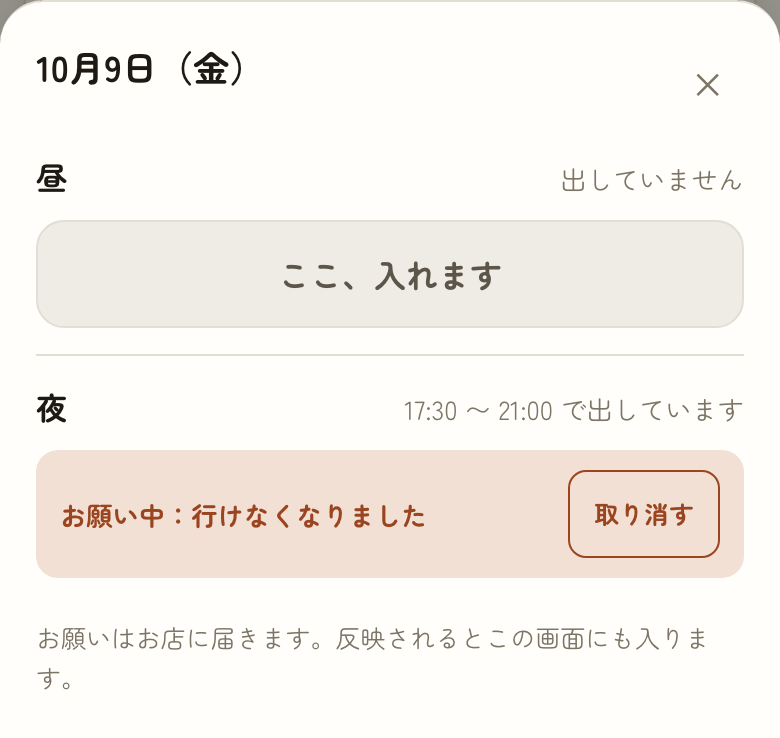
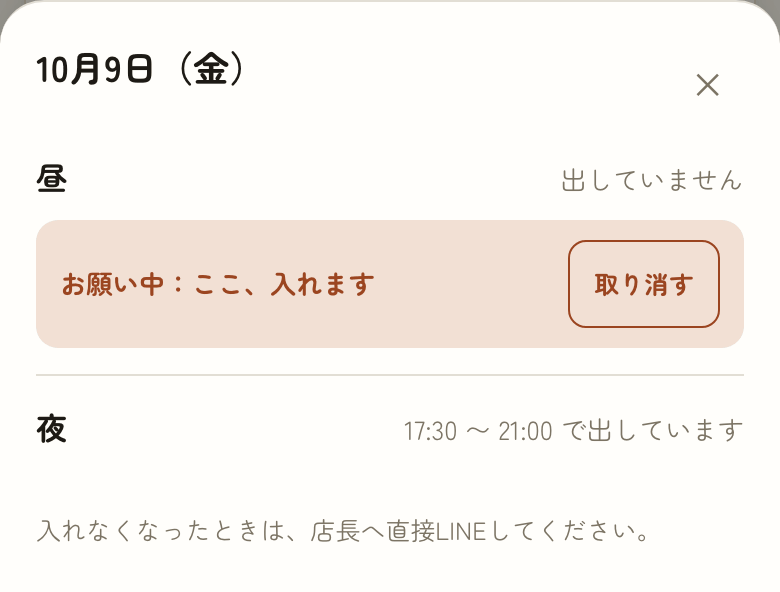
せんや：締切後の「行けなくなりました」をスタッフ画面から外す。入れなくなったときは店長へ直接LINEと案内する。空き枠の「ここ、入れます」は残す／希望なしで確定だけある枠にも「ここ、入れます」を出さず決まった時間を出す／案内・説明書・画像を更新
Claude-Session: https://claude.ai/code/session_01YAqp5QN6wATmCnquKFVScV

diff --git a/tsumiki-senya-tsukaikata.html b/tsumiki-senya-tsukaikata.html
@@ -532,11 +532,11 @@
     </article>
 
     <article class="item" id="i17">
-      <div class="figs"><figure class="shot pair"><img src="senya-shots/s-locked.png" alt="締切ずみと出ているスタッフのカレンダー" loading="lazy" decoding="async" width="780" height="1084"><img src="senya-shots/s-lockedsheet.png" alt="締切後にお願いを出す画面" loading="lazy" decoding="async" width="780" height="754"><figcaption>上＝締切をすぎた月　下＝日をタップすると、この2つが出る</figcaption></figure><figure class="shot"><img src="senya-shots/s-req.png" alt="お願い中と出ている画面" loading="lazy" decoding="async" width="780" height="774"><figcaption>出したお願いは、取り消せます</figcaption></figure></div>
+      <div class="figs"><figure class="shot pair"><img src="senya-shots/s-locked.png" alt="締切ずみと出ているスタッフのカレンダー" loading="lazy" decoding="async" width="780" height="1084"><img src="senya-shots/s-lockedsheet.png" alt="締切後にお願いを出す画面" loading="lazy" decoding="async" width="780" height="754"><figcaption>上＝締切をすぎた月　下＝日をタップしたところ</figcaption></figure><figure class="shot"><img src="senya-shots/s-req.png" alt="お願い中と出ている画面" loading="lazy" decoding="async" width="780" height="774"><figcaption>出したお願いは、取り消せます</figcaption></figure></div>
       <div class="txt"><h3><span class="n">17</span>締切をすぎたら（お願いを出す）<span class="who-tag w">スタッフ</span></h3>
-      <p>締切をすぎた月は<strong>自分では直せません</strong>。でも日をタップすると <kbd>行けなくなりました</kbd> <kbd>ここ、入れます</kbd> が出ます。押すと<strong>お店にお願いが届きます</strong>。</p>
+      <p>締切をすぎた月は<strong>自分では直せません</strong>。空いている時間は、日をタップして <kbd>ここ、入れます</kbd> を押すと<strong>お店にお願いが届きます</strong>。<strong>入れなくなったときは、店長へ直接LINEしてください。</strong></p>
       
-      <details class="more"><summary>くわしく</summary><div class="mb"><p class="fine">お願いを出すと、上に「お願い ◯件」と出て、その日に赤い枠がつきます。取り消すこともできます。<br>店長が受け入れると、その内容が希望に反映されます。<strong>LINEで別に連絡する必要はありません。</strong></p></div></details></div>
+      <details class="more"><summary>くわしく</summary><div class="mb"><p class="fine">お願いを出すと、上に「お願い ◯件」と出て、その日に赤い枠がつきます。取り消すこともできます。<br>店長が受け入れると、その内容が希望に反映されます。</p></div></details></div>
     </article>
 
     <article class="item" id="i18">
@@ -633,7 +633,7 @@
       <div class="figs"><figure class="shot"><img src="senya-shots/k-req.png" alt="スタッフからのお願い" loading="lazy" decoding="async" width="780" height="872"><figcaption>受け入れるか、見送るかを選ぶ</figcaption></figure></div>
       <div class="txt"><h3><span class="n">29</span>お願いを受け取る<span class="who-tag m">店長</span></h3>
       <p>締切のあとにスタッフが出したお願いは、<strong>一覧のいちばん上に赤く出ます</strong>。名前を押すと中身が開き、<kbd>受け入れる</kbd> か <kbd>見送る</kbd> を選べます。</p>
-      <details class="more"><summary>くわしく</summary><div class="mb"><p class="fine"><kbd>受け入れる</kbd> を押すと、その内容が希望に反映されます（「行けなくなりました」なら、決まっていたシフトからも外れます）。<br><kbd>見送る</kbd> は希望を変えずに、お願いだけ片づけます。どちらもスタッフの画面から消えます。</p></div></details></div>
+      <details class="more"><summary>くわしく</summary><div class="mb"><p class="fine"><kbd>受け入れる</kbd> を押すと、その内容が希望に反映されます。<br><kbd>見送る</kbd> は希望を変えずに、お願いだけ片づけます。どちらもスタッフの画面から消えます。</p></div></details></div>
     </article>
 
 <article class="item" id="i30">
@@ -753,7 +753,7 @@
     </div>
     <div>
       <div class="q">日をタップしても入れられない</div>
-      <div class="a"><b>締切をすぎています。</b>その月は自分では直せません。日をタップして <kbd>行けなくなりました</kbd> <kbd>ここ、入れます</kbd> からお願いを出してください。店長が受け入れると反映されます。</div>
+      <div class="a"><b>締切をすぎています。</b>その月は自分では直せません。入れる日が増えたときは、日をタップして <kbd>ここ、入れます</kbd> からお願いを出してください。入れなくなったときは、店長へ直接LINEしてください。</div>
     </div>
     <div>
       <div class="q">出したはずの日が消えている</div>

diff --git a/tsumiki-senya.html b/tsumiki-senya.html
@@ -1009,11 +1009,11 @@ function render(){
   /* 案内文。
      ⚠ 締切前の説明は「使い方」なので、まだ1日も出していない人にだけ出す。
      慣れた人には毎月ずっと出続けるだけで、読まれない。空の月に戻れば また出る。
-     締切後の案内（お願いの出しかた）は、めったに出ない状況の説明なので残す。 */
+     締切後の案内（変更の伝えかた）は、めったに出ない状況の説明なので残す。 */
   const hintEl=document.getElementById('hint');
   const hintTxt = cur.editable
     ? (n===0 ? '働ける日をタップして、'+((me.slots||[]).map(s=>s.label).join('・')||'時間帯')+' それぞれを選んでください。選ばなかったところは「その時間は働けない」として伝わります。' : '')
-    : '締切をすぎたので直せません。急な変更は、日をタップして「お願い」を出してください。';
+    : '締切をすぎたので直せません。入れなくなったときは店長へ直接LINEを。入れる日があるときは、日をタップしてください。';
   hintEl.textContent=hintTxt; hintEl.hidden=!hintTxt;
 
   /* 出し終わりの印 */
@@ -1334,14 +1334,17 @@ document.getElementById('shSave').addEventListener('click',async()=>{
 /* 締切後：お願い */
 function renderLocked(key){
   const box=document.getElementById('shReqs'); box.innerHTML='';
+  let canAdd=false, hasShift=false;
   (me.slots||[]).forEach(s=>{
     const got=(byDate[key]||{})[s.k];
+    const fixed=(byAssign[key]||{})[s.k];   // 希望が無くても、店長が決めた枠は「入っている」として扱う
     const req=byReq[key+'|'+s.k];
     const row=document.createElement('div'); row.className='reqrow';
 
     const t=document.createElement('div'); t.className='rt';
     t.innerHTML='<b>'+esc(s.label)+'</b><span class="rs">'
-      +(got?(m2hm(got.from)+' 〜 '+m2hm(got.to)+' で出しています'):'出していません')+'</span>';
+      +(fixed?(m2hm(fixed.from)+' 〜 '+m2hm(fixed.to)+' で決まっています')
+        :got?(m2hm(got.from)+' 〜 '+m2hm(got.to)+' で出しています'):'出していません')+'</span>';
     row.appendChild(t);
     const pe=peersRow(key,s.k,got?got.mark:null); if(pe){ pe.style.margin='0 0 10px'; row.appendChild(pe); }
 
@@ -1352,18 +1355,25 @@ function renderLocked(key){
       c.addEventListener('click',()=>cancelReq(req.id));
       p.appendChild(c);
       row.appendChild(p);
-    }else{
+    }else if(!got && !fixed){
+      /* 「行けなくなりました」は店長の見落としが起きるのでやめた。変更は直接LINEで受ける */
       const b=document.createElement('button');
       b.className='btn sub'; b.style.margin='0';
-      b.textContent=got?'行けなくなりました':'ここ、入れます';
-      b.addEventListener('click',()=>sendReq(key,s.k,got?'drop':'add'));
+      b.textContent='ここ、入れます';
+      b.addEventListener('click',()=>sendReq(key,s.k,'add'));
       row.appendChild(b);
+      canAdd=true;
     }
+    if(got||fixed) hasShift=true;
     box.appendChild(row);
   });
-  const note=document.createElement('p'); note.className='note';
-  note.textContent='お願いはお店に届きます。反映されるとこの画面にも入ります。';
-  box.appendChild(note);
+  [canAdd?'お願いはお店に届きます。反映されるとこの画面にも入ります。':'',
+   hasShift?'入れなくなったときは、店長へ直接LINEしてください。':''
+  ].filter(Boolean).forEach(tx=>{
+    const note=document.createElement('p'); note.className='note';
+    note.textContent=tx;
+    box.appendChild(note);
+  });
 }
 async function sendReq(d,k,kind){
   try{
@@ -1469,10 +1479,10 @@ function tutSteps(){
     {sel:'#stateRow', h:'この月は締切ずみ',
      text:'いまから出したり、直したりはできません。'},
     {sel:'#cal', pad:4, h:'日をタップ',
-     text:'その日の内容が見られます。急な変更はそこから。',
+     text:'その日の内容が見られます。',
      done:sheetOpen},
-    {sel:'#shLocked', need:sheetOpen, h:'お願いを出す',
-     text:'「ここ、入れます」「行けなくなりました」がお店に届きます。'},
+    {sel:'#shLocked', need:sheetOpen, h:'締切後の変更',
+     text:'入れなくなったときは、店長へ直接LINEしてください。空いている時間は「ここ、入れます」が出ます。'},
     {sel:'#mNext', enter:function(){ if(sheetOpen()) closeSheet(true); },
      h:'来月ぶん', text:'ここで月をめくって出せます。締切までにお願いします。'}
   ];
@@ -1637,7 +1647,7 @@ function tipShow(id, sel, h, text){
 }
 function tipLocked(){
   tipShow('locked','#shLocked','締切をすぎた日は直せません',
-    '「ここ、入れます」「行けなくなりました」でお願いが届きます。');
+    '入れなくなったときは、店長へ直接LINEしてください。空いている時間は「ここ、入れます」が出ます。');
 }
 function tutTips(){
   if(tipShown || tutOn || !cur) return;
